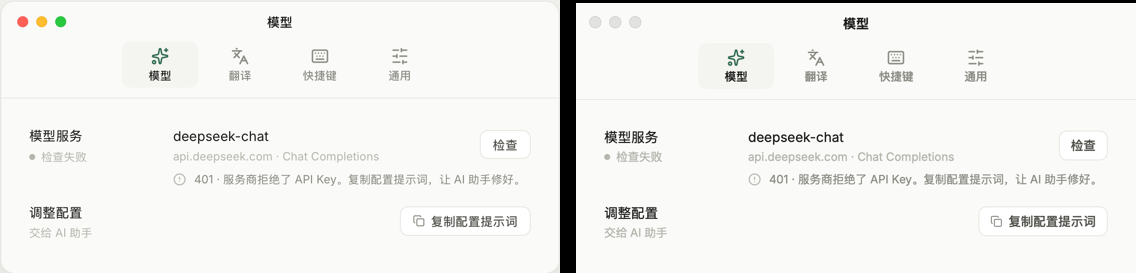
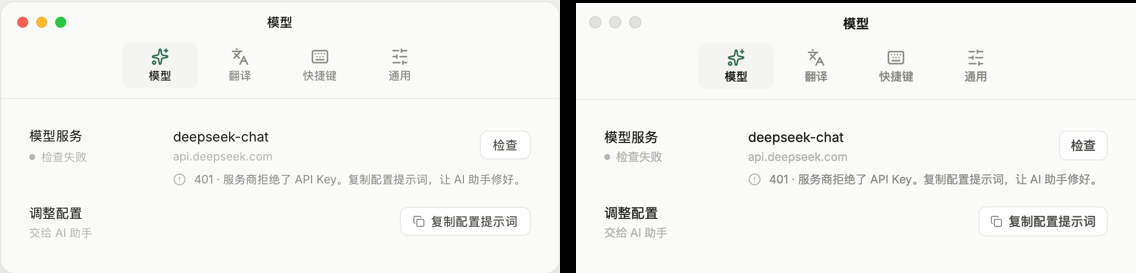
feat: show the configured reasoning level beside the model in Settings (#18)
A model whose reasoning level is set through `body` showed only its name,
host and request format, so nothing in Settings told whether the assistant
had set the level Cida expects. Cida translates and rewrites, where the
lowest level a model allows is the right setting, and some models cannot
turn reasoning off at all, so the level is shown as a quiet fact rather
than a warning: after the model name in text-secondary, spelled as the
service spells it (`gpt-5 minimal`, `thinking 4096`), and not at all when
reasoning is off or left to the service.

The second line keeps only the host: the request format is a detail the
assistant reads from `config show`, not something the user acts on. The
configuration prompt now asks the assistant to turn reasoning off, or set
the lowest level the model allows.

diff --git a/Tests/CidaTests/ModelConfigurationTests.swift b/Tests/CidaTests/ModelConfigurationTests.swift
@@ -141,11 +141,37 @@ final class ModelConfigurationTests: XCTestCase {
   func testSummaryNamesTheModelTheHostAndTheFormat() {
     let service = CidaSettings.designPreview.modelService
     XCTAssertEqual(service.summary, "deepseek-chat · api.deepseek.com · Chat Completions")
-    XCTAssertEqual(service.hostAndFormat, "api.deepseek.com · Chat Completions")
+    XCTAssertEqual(service.hostTitle, "api.deepseek.com")
     var responses = service
     responses.format = .responses
     responses.endpoint = "https://api.openai.com/v1/responses"
-    XCTAssertEqual(responses.hostAndFormat, "api.openai.com · Responses")
+    responses.model = "gpt-5"
+    responses.body = ["reasoning": .object(["effort": .string("minimal")])]
+    XCTAssertEqual(responses.summary, "gpt-5 minimal · api.openai.com · Responses")
+  }
+
+  func testReasoningReadsEachServicesSpellingOfTheSetting() {
+    func reasoning(_ body: String) -> String? {
+      var service = ModelConfiguration()
+      service.body = JSONValue.parse(body)!.objectValue!
+      return service.reasoning
+    }
+    XCTAssertNil(reasoning("{}"))
+    XCTAssertNil(reasoning(#"{"temperature": 0.2}"#))
+    XCTAssertNil(reasoning(#"{"reasoning": null}"#), "A null member is removed from the request")
+    XCTAssertEqual(reasoning(#"{"reasoning": {"effort": "xhigh"}}"#), "xhigh")
+    XCTAssertEqual(reasoning(#"{"reasoning_effort": "minimal"}"#), "minimal")
+    XCTAssertEqual(reasoning(#"{"output_config": {"effort": "medium"}}"#), "medium")
+    XCTAssertEqual(
+      reasoning(#"{"thinking": {"type": "adaptive"}, "output_config": {"effort": "low"}}"#), "low")
+    XCTAssertEqual(reasoning(#"{"thinking": {"type": "enabled"}}"#), "thinking")
+    XCTAssertEqual(
+      reasoning(#"{"thinking": {"type": "enabled", "budget_tokens": 4096}}"#), "thinking 4096")
+    XCTAssertEqual(reasoning(#"{"enable_thinking": true}"#), "thinking")
+    // Reasoning that is off is the expected setting for translation, so nothing is shown.
+    XCTAssertNil(reasoning(#"{"reasoning": {"effort": "none"}}"#))
+    XCTAssertNil(reasoning(#"{"thinking": {"type": "disabled"}}"#))
+    XCTAssertNil(reasoning(#"{"enable_thinking": false}"#))
   }
 
   func testFingerprintChangesWithTheServiceAndTheKeyButNotThePrompts() {
@@ -183,7 +209,7 @@ final class ModelConfigurationTests: XCTestCase {
 
       请这样做：
       1. 问我想用哪家模型服务和哪个模型；我没想好时推荐两三个并说明差别。
-      2. 运行 `Cida config schema` 了解全部字段，查这家服务的官方文档，确定端点、请求格式和需要的参数。
+      2. 运行 `Cida config schema` 了解全部字段，查这家服务的官方文档，确定端点、请求格式和需要的参数。辞达只用来翻译和改写，用不上思考：模型能关闭思考就在 `body` 里关掉，关不掉就设到它支持的最低档。
       3. 用 `Cida config set 字段=值 …` 一次写入。
       4. API Key 不要让我发给你，也不要打印或写进文件：请我先复制 Key，再运行 `pbpaste | Cida config set api-key --stdin`；Key 已经在环境变量或文件里时，用 `--env` 或 `--file`。
       5. 运行 `Cida check`；失败时用 `Cida check --verbose` 找原因、修改配置，直到通过。

diff --git a/Sources/Cida/ModelConfiguration.swift b/Sources/Cida/ModelConfiguration.swift
@@ -121,15 +121,42 @@ struct ModelConfiguration: Equatable, Sendable {
     missingFields(hasAPIKey: hasAPIKey).isEmpty
   }
 
-  /// `api.deepseek.com · Chat Completions`: where requests go and in which shape.
-  var hostAndFormat: String {
-    "\(host ?? "未设置端点") · \(format.displayName)"
+  /// `api.deepseek.com`: where requests go, as Settings shows it.
+  var hostTitle: String {
+    host ?? "未设置端点"
   }
 
-  /// `deepseek-chat · api.deepseek.com · Chat Completions`.
+  /// `gpt-5 minimal · api.openai.com · Responses`: the model with its reasoning level, where
+  /// requests go and in which shape.
   var summary: String {
     let modelName = model.trimmingCharacters(in: .whitespacesAndNewlines)
-    return "\(modelName.isEmpty ? "未设置模型" : modelName) · \(hostAndFormat)"
+    let modelTitle = [modelName.isEmpty ? "未设置模型" : modelName, reasoning]
+      .compactMap { $0 }.joined(separator: " ")
+    return "\(modelTitle) · \(hostTitle) · \(format.displayName)"
+  }
+
+  /// The reasoning level `body` asks for, spelled as the service spells it (`minimal`, `low`,
+  /// `thinking 4096`), so it can be matched against the configuration and the service's docs.
+  /// Nil when reasoning is off or left to the service's default: Cida translates and rewrites,
+  /// where the lowest level a model allows is the expected setting, so only a level is worth
+  /// showing. Services name it differently: `reasoning.effort` (Responses, OpenRouter),
+  /// `reasoning_effort` (Chat Completions), `output_config.effort` (Anthropic), `thinking`
+  /// (Anthropic, DeepSeek, Zhipu, Moonshot) and `enable_thinking` (Qwen).
+  var reasoning: String? {
+    let efforts = [
+      body["reasoning"]?["effort"], body["reasoning_effort"], body["output_config"]?["effort"],
+    ]
+    if let effort = efforts.lazy.compactMap({ $0?.stringValue }).first(where: { !$0.isEmpty }) {
+      return effort == "none" ? nil : effort
+    }
+    if let thinking = body["thinking"]?["type"]?.stringValue {
+      guard thinking != "disabled" else { return nil }
+      return body["thinking"]?["budget_tokens"]?.intValue.map { "thinking \($0)" } ?? "thinking"
+    }
+    if case .bool(true) = body["enable_thinking"] {
+      return "thinking"
+    }
+    return nil
   }
 
   /// Identifies what a check tested: the service, the request shape and the key. A recorded

diff --git a/Design/boards/configuration.html b/Design/boards/configuration.html
@@ -21,7 +21,7 @@
   </div>
   <div class="divider"></div>
 
-  <p class="caption">② 设置 · 已配置 — 纸收起；「模型服务」标签下是状态，控件列是模型名与「域名 · 格式」，右侧「检查」；下一行「调整配置」复制同一段提示词。助手改完配置时窗口实时刷新，状态带「刚刚更新」3 秒</p>
+  <p class="caption">② 设置 · 已配置 — 纸收起；「模型服务」标签下是状态，控件列是模型名与域名，body 设了思考档位时模型名后浅色接档位（如 minimal），右侧「检查」；下一行「调整配置」复制同一段提示词。助手改完配置时窗口实时刷新，状态带「刚刚更新」3 秒</p>
   <div class="states-grid">
     <figure><div class="state-label">已就绪（settings-config-ready）</div>
       <cida-settings state="settings-config-ready" config="ready"></cida-settings></figure>
@@ -47,7 +47,7 @@
 
 请这样做：
 1. 问我想用哪家模型服务和哪个模型；我没想好时推荐两三个并说明差别。
-2. 运行 `Cida config schema` 了解全部字段，查这家服务的官方文档，确定端点、请求格式和需要的参数。
+2. 运行 `Cida config schema` 了解全部字段，查这家服务的官方文档，确定端点、请求格式和需要的参数。辞达只用来翻译和改写，用不上思考：模型能关闭思考就在 `body` 里关掉，关不掉就设到它支持的最低档。
 3. 用 `Cida config set 字段=值 …` 一次写入。
 4. API Key 不要让我发给你，也不要打印或写进文件：请我先复制 Key，再运行 `pbpaste | Cida config set api-key --stdin`；Key 已经在环境变量或文件里时，用 `--env` 或 `--file`。
 5. 运行 `Cida check`；失败时用 `Cida check --verbose` 找原因、修改配置，直到通过。

diff --git a/Sources/Cida/SettingsView.swift b/Sources/Cida/SettingsView.swift
@@ -522,6 +522,14 @@ private struct ModelServiceRow: View {
     model.isModelServiceRecentlyUpdated ? "\(status.caption) · 刚刚更新" : status.caption
   }
 
+  /// The model name, followed by the reasoning level `body` sets, in a quieter tone.
+  private var modelTitle: Text {
+    let service = model.settings.modelService
+    let name = Text(service.model).foregroundStyle(CidaDesign.textPrimary)
+    guard let reasoning = service.reasoning else { return name }
+    return name + Text(" " + reasoning).foregroundStyle(CidaDesign.textSecondary)
+  }
+
   var body: some View {
     HStack(alignment: .center, spacing: 24) {
       VStack(alignment: .leading, spacing: 3) {
@@ -546,13 +554,12 @@ private struct ModelServiceRow: View {
 
       HStack(spacing: 8) {
         VStack(alignment: .leading, spacing: 3) {
-          Text(model.settings.modelService.model)
+          modelTitle
             .font(CidaDesign.ui(13.5))
-            .foregroundStyle(CidaDesign.textPrimary)
             .lineLimit(1)
             .truncationMode(.middle)
             .frame(height: 20)
-          Text(model.settings.modelService.hostAndFormat)
+          Text(model.settings.modelService.hostTitle)
             .font(CidaDesign.ui(11.5))
             .foregroundStyle(CidaDesign.textTertiary)
             .lineLimit(1)

diff --git a/Sources/Cida/ConfigurationPrompt.swift b/Sources/Cida/ConfigurationPrompt.swift
@@ -29,7 +29,7 @@ enum ConfigurationPrompt {
 
     请这样做：
     1. 问我想用哪家模型服务和哪个模型；我没想好时推荐两三个并说明差别。
-    2. 运行 `Cida config schema` 了解全部字段，查这家服务的官方文档，确定端点、请求格式和需要的参数。
+    2. 运行 `Cida config schema` 了解全部字段，查这家服务的官方文档，确定端点、请求格式和需要的参数。辞达只用来翻译和改写，用不上思考：模型能关闭思考就在 `body` 里关掉，关不掉就设到它支持的最低档。
     3. 用 `Cida config set 字段=值 …` 一次写入。
     4. API Key 不要让我发给你，也不要打印或写进文件：请我先复制 Key，再运行 `pbpaste | Cida config set api-key --stdin`；Key 已经在环境变量或文件里时，用 `--env` 或 `--file`。
     5. 运行 `Cida check`；失败时用 `Cida check --verbose` 找原因、修改配置，直到通过。

diff --git a/Sources/Cida/AppLifecycle.swift b/Sources/Cida/AppLifecycle.swift
@@ -873,6 +873,13 @@ private struct LaunchOptions {
         settings.modelService = ModelConfiguration()
         settings.apiKey = ""
       }
+      if usesDesignFixtures, designState == .settingsConfigUpdated {
+        // The assistant has just moved to a model whose reasoning cannot be turned off and set
+        // it to the lowest level, which the row shows beside the name.
+        settings.modelService = ModelConfiguration(
+          endpoint: "https://api.openai.com/v1/responses", format: .responses, model: "gpt-5",
+          body: ["reasoning": .object(["effort": .string("minimal")])])
+      }
       if usesDesignFixtures, designState == .settingsShortcutsCustom {
         settings.shortcut = GlobalShortcut(
           keyCode: UInt16(kVK_ANSI_T), modifiers: [.control, .option])

diff --git a/Design/boards/components.js b/Design/boards/components.js
@@ -120,7 +120,9 @@ class CidaSettings extends HTMLElement {
       <div class="row">
         <div class="labels"><b>模型服务</b><small>${statusCaption}</small></div>
         <div class="controls">
-          <div class="stack summary"><b>deepseek-chat</b><small>api.deepseek.com · Chat Completions</small></div>
+          ${config === "updated"
+            ? `<div class="stack summary"><b>gpt-5 <span class="reasoning">minimal</span></b><small>api.openai.com</small></div>`
+            : `<div class="stack summary"><b>deepseek-chat</b><small>api.deepseek.com</small></div>`}
           <span class="button push">${config === "checking" ? "检查中…" : "检查"}</span>
         </div>
       </div>`;

diff --git a/UITests/CidaUITests/PanelAndSettingsJourneyTests.swift b/UITests/CidaUITests/PanelAndSettingsJourneyTests.swift
@@ -310,7 +310,7 @@ final class PanelAndSettingsJourneyTests: CidaReleaseUITestCase {
     XCTAssertTrue(
       driver.waitForText(containing: "cida-ui-mock-model", in: driver.modelSummary, timeout: 1))
     XCTAssertTrue(
-      driver.waitForText(containing: "127.0.0.1 · Chat Completions", in: driver.modelSummary, timeout: 1))
+      driver.waitForText(containing: "127.0.0.1", in: driver.modelSummary, timeout: 1))
     XCTAssertTrue(
       driver.waitForValue("已就绪", in: driver.modelStatus, timeout: 5), "刚刚更新 lasts 3 s")
 

diff --git a/Design/boards/components.css b/Design/boards/components.css
@@ -535,6 +535,7 @@ body {
 /* spec/configuration.md §四 */
 .row .controls .stack.summary { gap: 3px; }
 .row .controls .stack.summary b { font-size: 13.5px; font-weight: 400; line-height: 20px; }
+.row .controls .stack.summary .reasoning { color: var(--text-secondary); }
 .row .controls .push { margin-left: auto; }
 .dot-caption { display: inline-flex; align-items: center; gap: 6px; }
 .dot-caption i { width: 6px; height: 6px; border-radius: 50%; background: var(--accent); }

diff --git a/Design/spec/configuration.md b/Design/spec/configuration.md
@@ -45,7 +45,7 @@
 - 还没有模型服务：这一组只有一张纸（`surface-paper`，`radius-card`，1px `border`，padding 16/18）。标题「还没有模型服务」（13.5 medium），说明「复制配置提示词，交给 Claude Code、Codex 等 AI 助手。它会问你用哪家服务，配好后自己检查。」（11.5 `text-tertiary`），右侧带复制图标的「复制配置提示词」边框按钮。
 - 复制后：按钮 800ms 内为「✓ 已复制」（`accent-soft` 底，同面板的已复制，150ms `motion-icon-swap-ms` 交叉淡化进出），说明换成「已复制。粘贴给你的 AI 助手，配好后这里会自动更新。」，直到配置出现。
 - 已配置：纸收起。
-  - 「模型服务」一行：标签下是状态（6pt 圆点 + 说明：已就绪 / 正在检查… / 检查失败）；控件列左对齐两行，模型名（13.5 `text-primary`）与「<域名> · <格式>」（11.5 `text-tertiary`）；最右「检查」边框按钮，进行中为「检查中…」。
+  - 「模型服务」一行：标签下是状态（6pt 圆点 + 说明：已就绪 / 正在检查… / 检查失败）；控件列左对齐两行，模型名（13.5 `text-primary`）与域名（11.5 `text-tertiary`）。`body` 设了思考档位时，模型名后空一格接档位（同字号，`text-secondary`），照服务的写法：`reasoning.effort`、`reasoning_effort`、`output_config.effort` 的值（如 minimal、low），开启 `thinking` 或 `enable_thinking` 写 thinking，带预算时为「thinking <预算>」。档位是事实不是提醒：辞达只翻译和改写，思考应设到模型支持的最低档（见 §五），有的模型关不掉，所以不加标签、不提示；关闭（none、disabled、false）或没设时不写。请求格式不显示，助手用 `config show` 查看；最右「检查」边框按钮，进行中为「检查中…」。
   - 「调整配置」一行：说明「交给 AI 助手」，右侧同一个「复制配置提示词」按钮。
 - 检查失败：「模型服务」一行下、控件列起始处一行说明（提示图标 + 11.5 `text-secondary`）：「<状态码> · <原因>。复制配置提示词，让 AI 助手修好。」
 - 状态以最近一次检查为准：配置改动后还没检查过时为「已就绪」（配置完整即可）；设置里的「检查」与命令行 `check` 的结果都会记录，设置窗口开着时实时刷新。
@@ -64,7 +64,7 @@
 
 请这样做：
 1. 问我想用哪家模型服务和哪个模型；我没想好时推荐两三个并说明差别。
-2. 运行 `Cida config schema` 了解全部字段，查这家服务的官方文档，确定端点、请求格式和需要的参数。
+2. 运行 `Cida config schema` 了解全部字段，查这家服务的官方文档，确定端点、请求格式和需要的参数。辞达只用来翻译和改写，用不上思考：模型能关闭思考就在 `body` 里关掉，关不掉就设到它支持的最低档。
 3. 用 `Cida config set 字段=值 …` 一次写入。
 4. API Key 不要让我发给你，也不要打印或写进文件：请我先复制 Key，再运行 `pbpaste | Cida config set api-key --stdin`；Key 已经在环境变量或文件里时，用 `--env` 或 `--file`。
 5. 运行 `Cida check`；失败时用 `Cida check --verbose` 找原因、修改配置，直到通过。
